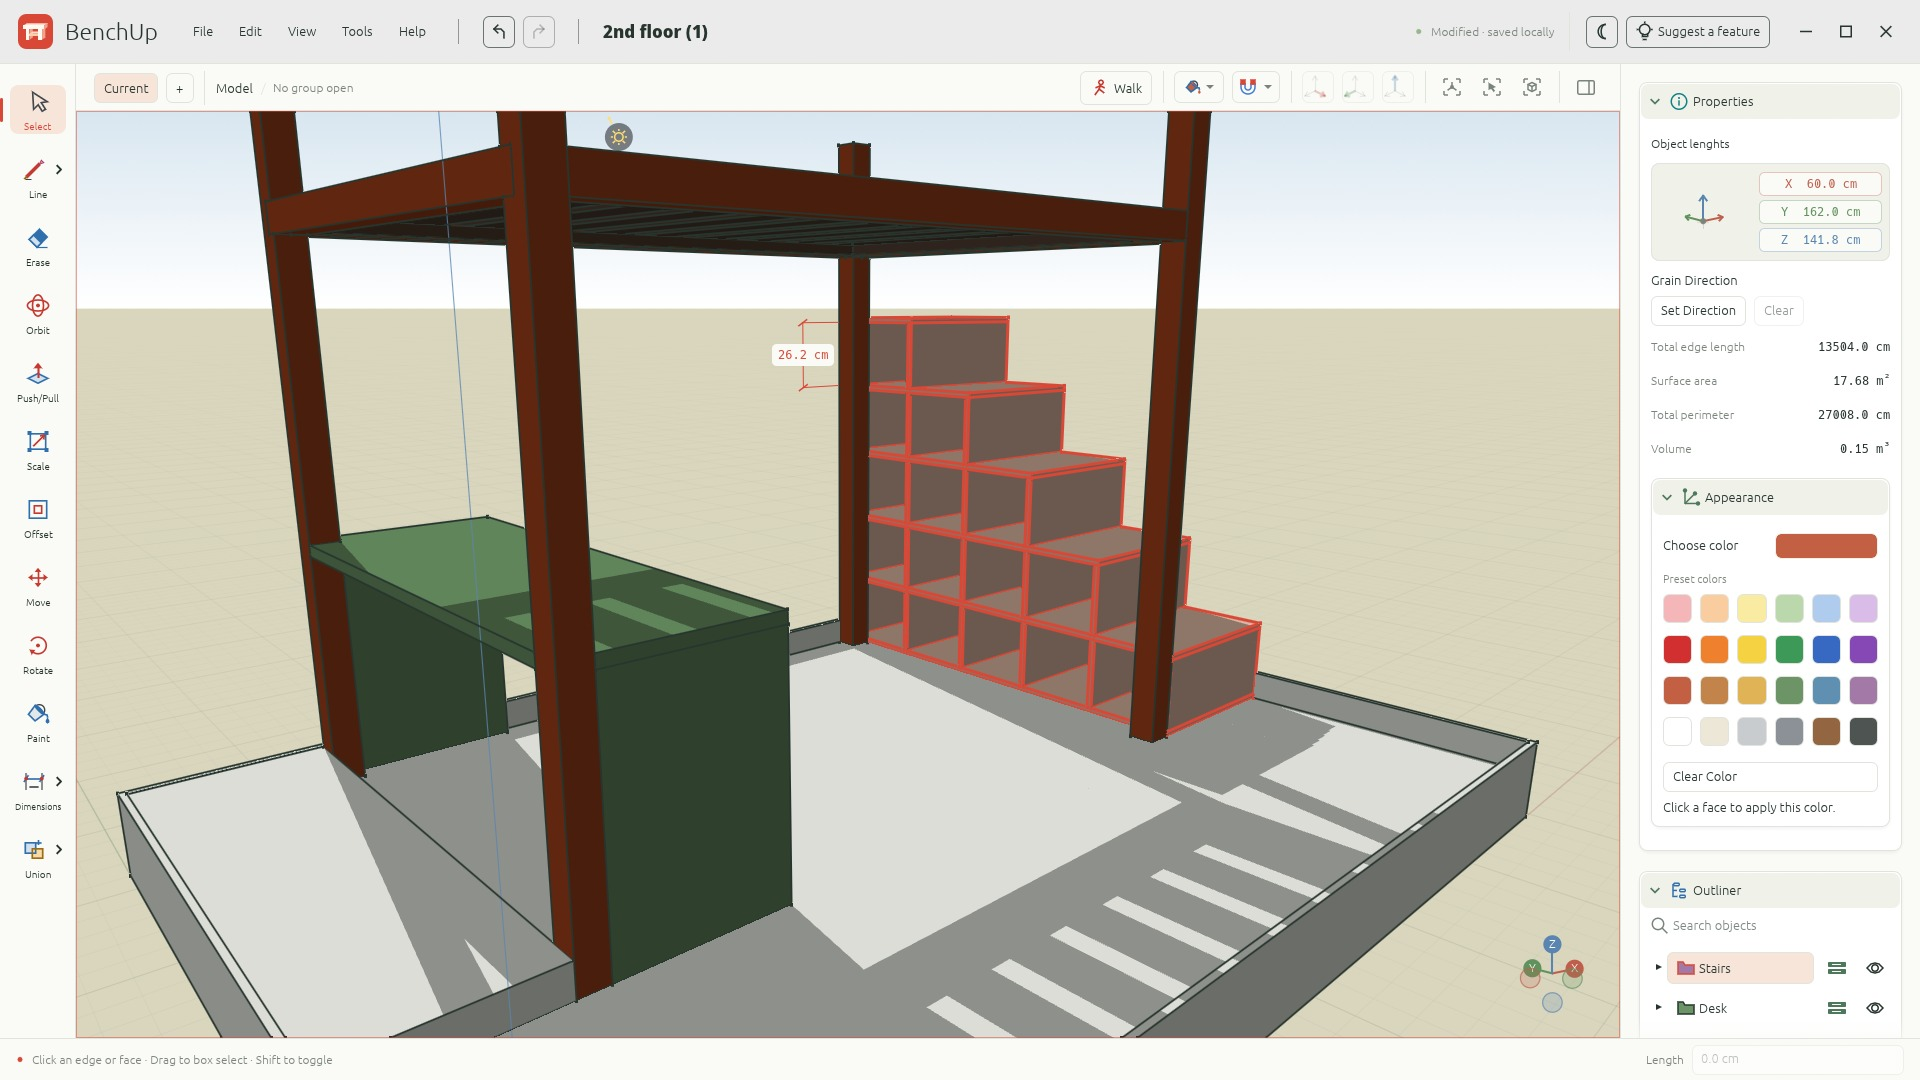
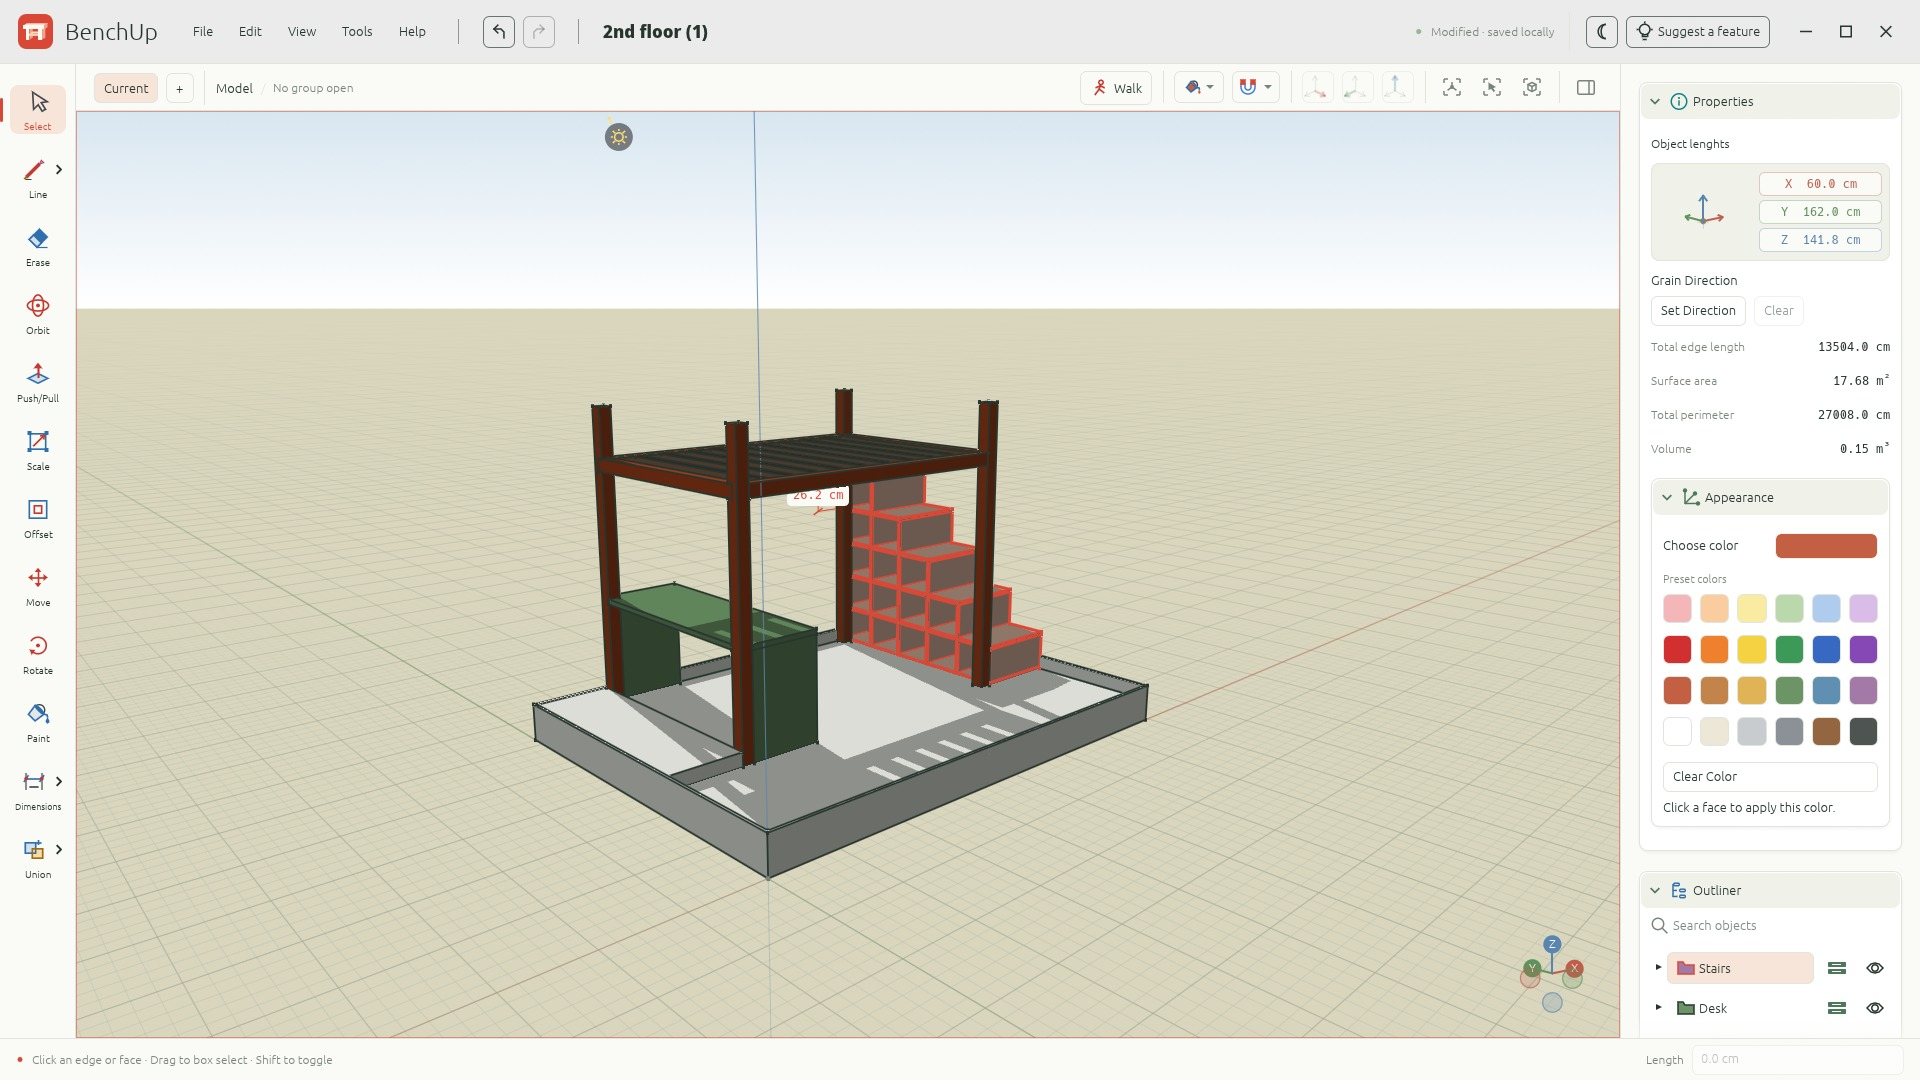
Prepare BenchUp 0.6.8 release

diff --git a/site/index.html b/site/index.html
@@ -13,8 +13,8 @@
     <meta property="og:url" content="https://benchup3d.github.io/editor/" />
     <meta property="og:site_name" content="BenchUp" />
     <meta property="og:locale" content="en_US" />
-    <meta property="og:image" content="https://benchup3d.github.io/editor/assets/screenshots/benchup.jpg?v=0.6.7" />
-    <meta property="og:image:secure_url" content="https://benchup3d.github.io/editor/assets/screenshots/benchup.jpg?v=0.6.7" />
+    <meta property="og:image" content="https://benchup3d.github.io/editor/assets/screenshots/benchup.jpg?v=0.6.8" />
+    <meta property="og:image:secure_url" content="https://benchup3d.github.io/editor/assets/screenshots/benchup.jpg?v=0.6.8" />
     <meta property="og:image:type" content="image/jpeg" />
     <meta property="og:image:width" content="1920" />
     <meta property="og:image:height" content="1080" />
@@ -22,7 +22,7 @@
     <meta name="twitter:card" content="summary_large_image" />
     <meta name="twitter:title" content="BenchUp — Free 3D Woodworking &amp; Furniture Design App" />
     <meta name="twitter:description" content="Free, open-source 3D woodworking and furniture design with wood joinery, grain orientation, cutting plans, and cost estimates. On desktop or in your browser." />
-    <meta name="twitter:image" content="https://benchup3d.github.io/editor/assets/screenshots/benchup.jpg?v=0.6.7" />
+    <meta name="twitter:image" content="https://benchup3d.github.io/editor/assets/screenshots/benchup.jpg?v=0.6.8" />
     <meta name="twitter:image:alt" content="BenchUp editor showing a loft bed model, drawing tools, and model controls." />
     <title>BenchUp — Free 3D Woodworking &amp; Furniture Design App</title>
     <link rel="icon" type="image/svg+xml" href="assets/branding/logo.svg" />
@@ -50,7 +50,7 @@
   "screenshot": [
     {
       "@type": "ImageObject",
-      "url": "https://benchup3d.github.io/editor/assets/screenshots/benchup.jpg?v=0.6.7",
+      "url": "https://benchup3d.github.io/editor/assets/screenshots/benchup.jpg?v=0.6.8",
       "width": 1920,
       "height": 1080
     },
@@ -102,7 +102,7 @@
           </div>
         </div>
         <figure class="workspace-preview">
-          <img src="assets/screenshots/benchup.jpg?v=0.6.7" alt="BenchUp’s 3D editor showing a loft bed model, with drawing tools on the left and model controls on the right." width="1920" height="1080" fetchpriority="high" />
+          <img src="assets/screenshots/benchup.jpg?v=0.6.8" alt="BenchUp’s 3D editor showing a loft bed model, with drawing tools on the left and model controls on the right." width="1920" height="1080" fetchpriority="high" />
           <figcaption><span>A little sketch. A whole new dimension.</span><span>Actual BenchUp workspace</span></figcaption>
         </figure>
       <div class="downloads" id="downloads" role="group" aria-label="Download the latest desktop release">

diff --git a/scripts/capture_readme_desktop.py b/scripts/capture_readme_desktop.py
@@ -20,20 +20,6 @@ ROOT = Path(__file__).resolve().parents[1]
 WIDTH, HEIGHT = 1920, 1080
 
 
-class KeyEvent(C.Structure):
-    _fields_ = [
-        ("type", C.c_int), ("serial", C.c_ulong), ("send_event", C.c_int),
-        ("display", C.c_void_p), ("window", C.c_ulong), ("root", C.c_ulong),
-        ("subwindow", C.c_ulong), ("time", C.c_ulong),
-        ("x", C.c_int), ("y", C.c_int), ("x_root", C.c_int), ("y_root", C.c_int),
-        ("state", C.c_uint), ("keycode", C.c_uint), ("same_screen", C.c_int),
-    ]
-
-
-class Event(C.Union):
-    _fields_ = [("key", KeyEvent), ("padding", C.c_long * 24)]
-
-
 class Desktop:
     def __init__(self):
         self.x = C.CDLL(ctypes.util.find_library("X11") or "libX11.so.6")
@@ -49,9 +35,9 @@ class Desktop:
                 C.POINTER(C.c_ulong), C.POINTER(C.POINTER(C.c_ulong)), C.POINTER(C.c_uint)]),
             "XMoveResizeWindow": (C.c_int, [C.c_void_p, C.c_ulong, C.c_int, C.c_int,
                 C.c_uint, C.c_uint]),
+            "XRaiseWindow": (C.c_int, [C.c_void_p, C.c_ulong]),
             "XSetInputFocus": (C.c_int, [C.c_void_p, C.c_ulong, C.c_int, C.c_ulong]),
             "XKeysymToKeycode": (C.c_ubyte, [C.c_void_p, C.c_ulong]),
-            "XSendEvent": (C.c_int, [C.c_void_p, C.c_ulong, C.c_int, C.c_long, C.POINTER(Event)]),
             "XWarpPointer": (C.c_int, [C.c_void_p, C.c_ulong, C.c_ulong, C.c_int,
                 C.c_int, C.c_uint, C.c_uint, C.c_int, C.c_int]),
             "XFlush": (C.c_int, [C.c_void_p]),
@@ -101,20 +87,25 @@ class Desktop:
 
     def prepare(self, window):
         self.x.XMoveResizeWindow(self.display, window, 0, 0, WIDTH, HEIGHT)
+        self.x.XRaiseWindow(self.display, window)
         self.x.XWarpPointer(self.display, 0, window, 0, 0, 0, 0, 0, HEIGHT - 1)
         self.x.XFlush(self.display)
 
     def dismiss_modals(self, window):
+        # Winit can ignore XSendEvent keyboard events. XTest delivers input
+        # through the server so Escape also reaches existing desktop binaries.
+        xtest = C.CDLL(ctypes.util.find_library("Xtst") or "libXtst.so.6")
+        xtest.XTestFakeKeyEvent.argtypes = [C.c_void_p, C.c_uint, C.c_int, C.c_ulong]
+        xtest.XTestFakeKeyEvent.restype = C.c_int
         self.x.XSetInputFocus(self.display, window, 2, 0)
+        self.x.XFlush(self.display)
         keycode = self.x.XKeysymToKeycode(self.display, 0xFF1B)
         # Escape closes the top popup/modal. Allow a frame between presses so
         # nested popups and dialogs, including release notes, can all dismiss.
         for _ in range(4):
-            for type_, mask in ((2, 1), (3, 2)):
-                event = Event()
-                event.key = KeyEvent(type=type_, send_event=1, display=self.display,
-                    window=window, root=self.root, keycode=keycode, same_screen=1)
-                self.x.XSendEvent(self.display, window, 0, mask, C.byref(event))
+            for pressed in (1, 0):
+                if not xtest.XTestFakeKeyEvent(self.display, keycode, pressed, 0):
+                    raise RuntimeError("Could not dismiss desktop modals through XTest.")
             self.x.XFlush(self.display)
             time.sleep(0.2)
 

diff --git a/README.md b/README.md
@@ -1,6 +1,6 @@
 # BenchUp
 
-![BenchUp editor screenshot](assets/screenshots/benchup.jpg "BenchUp v0.6.7 desktop workspace")
+![BenchUp editor screenshot](assets/screenshots/benchup.jpg "BenchUp v0.6.8 desktop workspace")
 
 [![Try BenchUp in your browser](https://img.shields.io/badge/Try_BenchUp_in_your_browser-d63b32?style=for-the-badge)](https://benchup3d.github.io/editor/play/)
 
